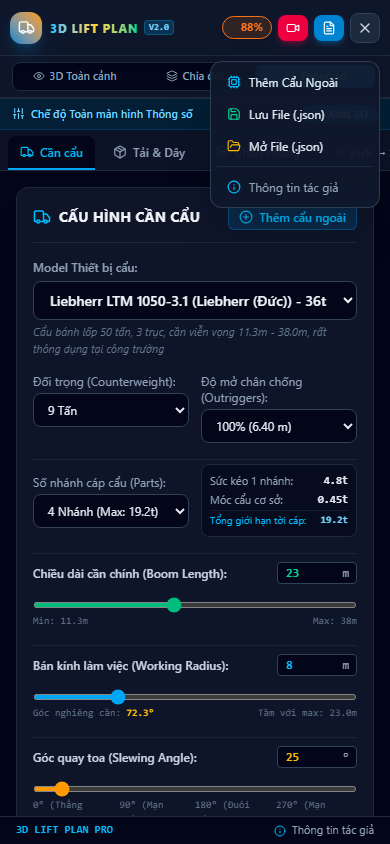
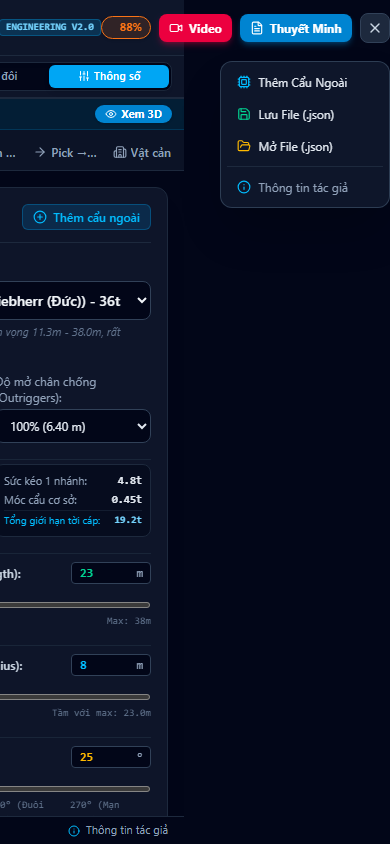
fix: khôi phục nguyên vẹn 100% giao diện desktop chuẩn kỹ thuật và cách ly tối ưu mobile

diff --git a/src/App.jsx b/src/App.jsx
@@ -524,27 +524,27 @@ export default function App() {
       {/* Top Navigation Header */}
       <header className="h-14 border-b border-slate-800 bg-slate-900/95 backdrop-blur-md px-2.5 sm:px-4 flex items-center justify-between z-30 shrink-0 print:hidden relative">
         {/* Logo & Title */}
-        <div className="flex items-center gap-2 sm:gap-3 shrink-0">
-          <div className="w-8 h-8 rounded-xl bg-gradient-to-tr from-sky-600 to-amber-500 flex items-center justify-center shadow-lg shadow-sky-500/20 shrink-0">
-            <Truck className="text-white" size={17} />
+        <div className="flex items-center gap-3 shrink-0">
+          <div className="w-9 h-9 rounded-xl bg-gradient-to-tr from-sky-600 to-amber-500 flex items-center justify-center shadow-lg shadow-sky-500/20 shrink-0">
+            <Truck className="text-white" size={20} />
           </div>
           <div>
-            <div className="flex items-center gap-1.5">
-              <h1 className="text-xs sm:text-sm font-black tracking-wider uppercase bg-gradient-to-r from-sky-400 via-amber-300 to-emerald-400 bg-clip-text text-transparent whitespace-nowrap">
-                3D LIFT PLAN
+            <div className="flex items-center gap-2">
+              <h1 className="text-sm font-black tracking-wider uppercase bg-gradient-to-r from-sky-400 via-amber-300 to-emerald-400 bg-clip-text text-transparent whitespace-nowrap">
+                3D LIFT PLAN PRO
               </h1>
-              <span className="text-[9px] sm:text-[10px] font-mono bg-sky-500/20 text-sky-300 border border-sky-500/30 px-1 py-0.2 rounded font-bold shrink-0">
-                V2.0
+              <span className="text-[10px] font-mono bg-sky-500/20 text-sky-300 border border-sky-500/30 px-1.5 py-0.2 rounded font-bold shrink-0">
+                ENGINEERING V2.0
               </span>
             </div>
-            <p className="text-[11px] text-slate-400 hidden md:block">
+            <p className="text-[11px] text-slate-400 hidden sm:block">
               Hệ thống Tính toán & Mô phỏng Nâng hạ 3D
             </p>
           </div>
         </div>
 
         {/* Global Safety Status Badge & Actions */}
-        <div className="flex items-center gap-1.5 sm:gap-2.5 shrink-0">
+        <div className="flex items-center gap-2 sm:gap-3 shrink-0">
           {/* Safety Status Badge */}
           {/* Mobile version: compact percentage badge */}
           <div
@@ -573,14 +573,14 @@ export default function App() {
           </div>
 
           {/* Desktop Secondary Action Buttons */}
-          <div className="hidden md:flex items-center gap-1.5 shrink-0">
+          <div className="hidden md:flex items-center gap-1.5 sm:gap-2 shrink-0">
             <button
               onClick={() => setIsCustomCraneModalOpen(true)}
-              className="bg-slate-800 hover:bg-slate-700 text-slate-200 border border-slate-700 px-2.5 py-1.5 rounded-lg text-xs font-medium flex items-center gap-1.5 transition-colors whitespace-nowrap shrink-0 cursor-pointer"
+              className="bg-slate-800 hover:bg-slate-700 text-slate-200 border border-slate-700 px-2.5 sm:px-3 py-1.5 rounded-lg text-xs font-medium flex items-center gap-1.5 transition-colors whitespace-nowrap shrink-0 cursor-pointer"
               title="Khai báo loại cẩu mới hoặc tải bảng tải ngoài"
             >
               <Cpu size={14} className="text-sky-400 shrink-0" />
-              <span>Thêm Cẩu</span>
+              <span>Thêm Cẩu Ngoài</span>
             </button>
 
             <button
@@ -589,7 +589,7 @@ export default function App() {
               title="Lưu phương án cẩu (.json)"
             >
               <Save size={14} className="text-emerald-400 shrink-0" />
-              <span>Lưu</span>
+              <span>Lưu file</span>
             </button>
 
             <label
@@ -597,7 +597,7 @@ export default function App() {
               title="Mở phương án cẩu đã lưu (.json)"
             >
               <FolderOpen size={14} className="text-amber-400 shrink-0" />
-              <span>Mở</span>
+              <span>Mở file</span>
               <input
                 ref={fileInputRef}
                 type="file"
@@ -611,22 +611,21 @@ export default function App() {
           {/* Primary Action Buttons (Always visible) */}
           <button
             onClick={() => setIsVideoModalOpen(true)}
-            className="bg-rose-600 hover:bg-rose-500 text-white px-2 sm:px-3.5 py-1.5 rounded-lg text-xs font-bold flex items-center gap-1 sm:gap-1.5 shadow-md shadow-rose-600/30 transition-colors whitespace-nowrap shrink-0 cursor-pointer"
+            className="bg-rose-600 hover:bg-rose-500 text-white px-2.5 sm:px-3.5 py-1.5 rounded-lg text-xs font-bold flex items-center gap-1.5 shadow-md shadow-rose-600/30 transition-colors whitespace-nowrap shrink-0 cursor-pointer"
             title="Xuất video ngắn mô phỏng nâng hạ 3D (MP4 / Full HD)"
           >
             <Video size={14} className="shrink-0" />
-            <span className="hidden xs:inline sm:hidden">Video</span>
             <span className="hidden sm:inline">Xuất Video 3D</span>
+            <span className="sm:hidden">Video</span>
           </button>
 
           <button
             onClick={handleOpenReport}
-            className="bg-sky-600 hover:bg-sky-500 text-white px-2 sm:px-3.5 py-1.5 rounded-lg text-xs font-bold flex items-center gap-1 sm:gap-1.5 shadow-md shadow-sky-600/30 transition-colors whitespace-nowrap shrink-0 cursor-pointer"
-            title="Xuất thuyết minh biện pháp nâng hạ 3D"
+            className="bg-sky-600 hover:bg-sky-500 text-white px-2.5 sm:px-3.5 py-1.5 rounded-lg text-xs font-bold flex items-center gap-1.5 shadow-md shadow-sky-600/30 transition-colors whitespace-nowrap shrink-0 cursor-pointer"
           >
             <FileText size={14} className="shrink-0" />
-            <span className="hidden xs:inline sm:hidden">Thuyết Minh</span>
             <span className="hidden sm:inline">Xuất Thuyết Minh Cẩu</span>
+            <span className="sm:hidden">Thuyết Minh</span>
           </button>
 
           {/* Mobile Secondary Menu Toggle (⋮) */}
@@ -895,66 +894,66 @@ export default function App() {
           )}
 
           {/* Navigation Tabs Bar */}
-          <div className="flex items-center border-b border-slate-800 bg-slate-900/80 px-2 pt-1.5 gap-1.5 shrink-0 select-none overflow-x-auto no-scrollbar scroll-smooth">
+          <div className="flex items-center border-b border-slate-800 bg-slate-900/80 px-1.5 pt-1.5 gap-1 shrink-0 select-none overflow-x-auto no-scrollbar scroll-smooth">
             <button
               onClick={() => setActiveTab('crane')}
-              className={`shrink-0 py-2 px-3 text-xs font-semibold rounded-t-lg transition-all flex items-center justify-center gap-1.5 border-b-2 whitespace-nowrap cursor-pointer ${
+              className={`flex-1 min-w-0 py-2 px-1 text-xs font-semibold rounded-t-lg transition-all flex items-center justify-center gap-1 sm:gap-1.5 border-b-2 whitespace-nowrap cursor-pointer ${
                 activeTab === 'crane'
                   ? 'border-sky-500 bg-slate-950 text-sky-400'
                   : 'border-transparent text-slate-400 hover:text-slate-200'
               }`}
             >
               <Truck size={14} className="shrink-0" />
-              <span>Cần cẩu</span>
+              <span className="truncate">Cần cẩu</span>
             </button>
 
             <button
               onClick={() => setActiveTab('load')}
-              className={`shrink-0 py-2 px-3 text-xs font-semibold rounded-t-lg transition-all flex items-center justify-center gap-1.5 border-b-2 whitespace-nowrap cursor-pointer ${
+              className={`flex-1 min-w-0 py-2 px-1 text-xs font-semibold rounded-t-lg transition-all flex items-center justify-center gap-1 sm:gap-1.5 border-b-2 whitespace-nowrap cursor-pointer ${
                 activeTab === 'load'
                   ? 'border-amber-500 bg-slate-950 text-amber-400'
                   : 'border-transparent text-slate-400 hover:text-slate-200'
               }`}
             >
               <Package size={14} className="shrink-0" />
-              <span>Tải & Dây</span>
+              <span className="truncate">Tải & Dây</span>
             </button>
 
             <button
               onClick={() => setActiveTab('mat')}
-              className={`shrink-0 py-2 px-3 text-xs font-semibold rounded-t-lg transition-all flex items-center justify-center gap-1.5 border-b-2 whitespace-nowrap cursor-pointer ${
+              className={`flex-1 min-w-0 py-2 px-1 text-xs font-semibold rounded-t-lg transition-all flex items-center justify-center gap-1 sm:gap-1.5 border-b-2 whitespace-nowrap cursor-pointer ${
                 activeTab === 'mat'
                   ? 'border-emerald-500 bg-slate-950 text-emerald-400'
                   : 'border-transparent text-slate-400 hover:text-slate-200'
               }`}
             >
               <Layers size={14} className="shrink-0" />
-              <span>Chân chống</span>
+              <span className="truncate">Chân chống</span>
             </button>
 
             <button
               onClick={() => setActiveTab('dual_point')}
-              className={`shrink-0 py-2 px-3 text-xs font-semibold rounded-t-lg transition-all flex items-center justify-center gap-1.5 border-b-2 whitespace-nowrap cursor-pointer ${
+              className={`flex-1 min-w-0 py-2 px-1 text-xs font-semibold rounded-t-lg transition-all flex items-center justify-center gap-1 sm:gap-1.5 border-b-2 whitespace-nowrap cursor-pointer ${
                 activeTab === 'dual_point'
                   ? 'border-rose-500 bg-slate-950 text-rose-400'
                   : 'border-transparent text-slate-400 hover:text-slate-200'
               }`}
             >
               <ArrowRight size={14} className="shrink-0" />
-              <span>Pick → Set</span>
+              <span className="truncate">Pick → Set</span>
             </button>
 
             <button
               onClick={() => setActiveTab('obstacle')}
               title="Vật cản công trình & Vận tốc gió"
-              className={`shrink-0 py-2 px-3 text-xs font-semibold rounded-t-lg transition-all flex items-center justify-center gap-1.5 border-b-2 whitespace-nowrap cursor-pointer ${
+              className={`flex-1 min-w-0 py-2 px-1 text-xs font-semibold rounded-t-lg transition-all flex items-center justify-center gap-1 sm:gap-1.5 border-b-2 whitespace-nowrap cursor-pointer ${
                 activeTab === 'obstacle'
                   ? 'border-purple-500 bg-slate-950 text-purple-400'
                   : 'border-transparent text-slate-400 hover:text-slate-200'
               }`}
             >
               <Building2 size={14} className="shrink-0" />
-              <span>Vật cản</span>
+              <span className="truncate">Vật cản</span>
             </button>
           </div>
 

diff --git a/src/components/ThreeViewport.jsx b/src/components/ThreeViewport.jsx
@@ -1094,15 +1094,15 @@ export default function ThreeViewport({
       )}
 
       {/* Top Overlay Bar: Status & Key Telemetry */}
-      <div className="absolute top-2 sm:top-3 left-2 sm:left-3 right-2 sm:right-3 flex items-center justify-between pointer-events-none gap-1.5 sm:gap-2">
+      <div className="absolute top-3 left-3 right-3 flex items-center justify-between pointer-events-none gap-2">
         {/* Crane & Model Tag */}
-        <div className="bg-slate-900/90 backdrop-blur-md px-2.5 sm:px-3.5 py-1 sm:py-2 rounded-lg border border-slate-700/80 shadow-lg flex items-center gap-2 sm:gap-3 pointer-events-auto min-w-0 max-w-[58%] sm:max-w-none">
-          <div className="w-2.5 h-2.5 sm:w-3 sm:h-3 rounded-full animate-pulse shrink-0" style={{ backgroundColor: liftCategory.color }} />
-          <div className="min-w-0">
-            <div className="text-[11px] sm:text-xs font-semibold text-slate-200 tracking-wide truncate">{crane?.name || 'Chưa chọn cẩu'}</div>
-            <div className="text-[9px] sm:text-[11px] text-slate-400 font-mono truncate">
-              R: <span className="text-sky-400 font-bold">{workingRadius.toFixed(1)}m</span> | α:{' '}
-              <span className="text-amber-400 font-bold">{boomAngle.toFixed(1)}°</span> | L:{' '}
+        <div className="bg-slate-900/85 backdrop-blur-md px-3.5 py-2 rounded-lg border border-slate-700/80 shadow-lg flex items-center gap-3 pointer-events-auto">
+          <div className="w-3 h-3 rounded-full animate-pulse shrink-0" style={{ backgroundColor: liftCategory.color }} />
+          <div>
+            <div className="text-xs font-semibold text-slate-200 tracking-wide">{crane?.name || 'Chưa chọn cẩu'}</div>
+            <div className="text-[11px] text-slate-400 font-mono">
+              Bán kính: <span className="text-sky-400 font-bold">{workingRadius.toFixed(1)}m</span> | Góc cần:{' '}
+              <span className="text-amber-400 font-bold">{boomAngle.toFixed(1)}°</span> | Cần:{' '}
               <span className="text-emerald-400 font-bold">{boomLength.toFixed(1)}m</span>
             </div>
           </div>
@@ -1110,25 +1110,25 @@ export default function ThreeViewport({
 
         {/* Live Safety Lift Percentage Pill */}
         <div
-          className="px-2.5 sm:px-3.5 py-1 sm:py-2 rounded-lg backdrop-blur-md border shadow-lg flex items-center gap-2 sm:gap-3 pointer-events-auto shrink-0"
+          className="px-4 py-2 rounded-lg backdrop-blur-md border shadow-lg flex items-center gap-3 pointer-events-auto shrink-0"
           style={{
             backgroundColor: liftCategory.bgColor,
             borderColor: liftCategory.color
           }}
         >
           <div className="text-right">
-            <div className="text-[8px] sm:text-[10px] font-bold uppercase tracking-wider text-slate-300">Khả năng tải</div>
-            <div className="text-sm sm:text-lg font-black font-mono tracking-tight leading-none sm:leading-tight" style={{ color: liftCategory.color }}>
-              {liftPercentage > 0 ? `${liftPercentage.toFixed(1)}%` : 'NGOÀI BẢNG'}
+            <div className="text-[10px] font-bold uppercase tracking-wider text-slate-300">Khả năng tải (Lift %)</div>
+            <div className="text-lg font-black font-mono tracking-tight" style={{ color: liftCategory.color }}>
+              {liftPercentage > 0 ? `${liftPercentage.toFixed(1)}%` : 'NGOÀI BẢNG TẢI'}
             </div>
           </div>
-          <div className="h-5 sm:h-8 w-px bg-slate-700/60" />
-          <div className="text-left text-[9px] sm:text-xs font-mono leading-tight">
+          <div className="h-8 w-px bg-slate-700/60" />
+          <div className="text-left text-xs font-mono">
             <div className="text-slate-300">
-              Tổng: <span className="font-bold text-white">{grossLoad.toFixed(1)}t</span>
+              Tổng tải: <span className="font-bold text-white">{grossLoad.toFixed(2)}t</span>
             </div>
-            <div className="text-slate-400 text-[8px] sm:text-[11px]">
-              Max: <span className="font-bold text-sky-300">{ratedCapacity.toFixed(1)}t</span>
+            <div className="text-slate-400 text-[11px]">
+              Tải cho phép: <span className="font-bold text-sky-300">{ratedCapacity.toFixed(2)}t</span>
             </div>
           </div>
         </div>
@@ -1278,10 +1278,10 @@ export default function ThreeViewport({
       </div>
 
       {/* Trajectory Simulation & Play Controls + Real-Time Load Rotation */}
-      <div className="absolute bottom-2 sm:bottom-4 right-2 sm:right-4 z-30 bg-slate-900/90 backdrop-blur-md p-1 sm:p-1.5 rounded-xl border border-slate-700/80 shadow-xl flex items-center gap-1.5 sm:gap-2 shrink-0 max-w-[96%] flex-wrap justify-end">
+      <div className="absolute bottom-3 sm:bottom-4 right-3 sm:right-4 z-30 bg-slate-900/90 backdrop-blur-md p-1.5 rounded-xl border border-slate-700/80 shadow-xl flex items-center gap-2 shrink-0">
         {/* Real-time Direct Load Rotation Quick Control */}
-        <div className="flex items-center gap-1 bg-slate-950/70 border border-slate-700/60 rounded-lg px-1.5 sm:px-2 py-0.5 sm:py-1 text-xs shrink-0">
-          <RotateCw size={12} className="text-emerald-400 shrink-0" />
+        <div className="flex items-center gap-1.5 bg-slate-950/70 border border-slate-700/60 rounded-lg px-2 py-1 text-xs">
+          <RotateCw size={13} className="text-emerald-400 shrink-0" />
           <span className="text-[11px] text-slate-300 font-medium hidden sm:inline">Xoay tải:</span>
           <WheelNumberInput
             value={loadRotation || 0}
@@ -1293,7 +1293,7 @@ export default function ThreeViewport({
             step={5}
             wrapAround={true}
             unit="°"
-            className="w-11 sm:w-14 bg-slate-900 border border-slate-700 rounded px-1 py-0.5 text-xs text-emerald-400 font-mono font-bold text-center focus:border-emerald-500"
+            className="w-14 bg-slate-900 border border-slate-700 rounded px-1 py-0.5 text-xs text-emerald-400 font-mono font-bold text-center focus:border-emerald-500"
           />
           <div className="hidden sm:flex items-center gap-0.5">
             {[0, 90, 180, 270].map((deg) => (
@@ -1317,13 +1317,13 @@ export default function ThreeViewport({
 
         <button
           onClick={() => setIsSimulating(!isSimulating)}
-          className={`px-2.5 sm:px-3 py-1 sm:py-1.5 text-xs font-bold rounded-lg flex items-center gap-1 sm:gap-1.5 shadow transition-all whitespace-nowrap cursor-pointer shrink-0 ${
+          className={`px-3 py-1.5 text-xs font-bold rounded-lg flex items-center gap-1.5 shadow transition-all whitespace-nowrap cursor-pointer ${
             isSimulating
               ? 'bg-amber-600 hover:bg-amber-500 text-white'
               : 'bg-emerald-600 hover:bg-emerald-500 text-white'
           }`}
         >
-          {isSimulating ? <Pause size={13} className="shrink-0" /> : <Play size={13} className="shrink-0" />}
+          {isSimulating ? <Pause size={14} className="shrink-0" /> : <Play size={14} className="shrink-0" />}
           <span className="hidden sm:inline">{isSimulating ? 'Tạm dừng mô phỏng' : 'Chạy thử đường cẩu (Pick → Set)'}</span>
           <span className="sm:hidden">{isSimulating ? 'Dừng' : 'Mô phỏng'}</span>
         </button>
@@ -1332,10 +1332,10 @@ export default function ThreeViewport({
         {onOpenVideoModal && (
           <button
             onClick={onOpenVideoModal}
-            className="px-2.5 sm:px-3 py-1 sm:py-1.5 text-xs font-bold rounded-lg flex items-center gap-1 shadow transition-all whitespace-nowrap cursor-pointer bg-rose-600 hover:bg-rose-500 text-white shadow-rose-600/20 shrink-0"
+            className="px-3 py-1.5 text-xs font-bold rounded-lg flex items-center gap-1.5 shadow transition-all whitespace-nowrap cursor-pointer bg-rose-600 hover:bg-rose-500 text-white shadow-rose-600/20"
             title="Xuất video ngắn mô phỏng nâng hạ 3D (MP4 / Full HD)"
           >
-            <Video size={13} className="shrink-0" />
+            <Video size={14} className="shrink-0" />
             <span className="hidden sm:inline">Quay video 3D</span>
             <span className="sm:hidden">Video</span>
           </button>
@@ -1343,7 +1343,7 @@ export default function ThreeViewport({
       </div>
 
       {/* Floating Bottom Center: Outrigger Pressure Legend */}
-      <div className="absolute bottom-4 left-1/2 -translate-x-1/2 bg-slate-900/80 backdrop-blur-sm px-3 py-1.5 rounded-full border border-slate-800 text-[11px] text-slate-400 items-center gap-4 pointer-events-none hidden lg:flex">
+      <div className="absolute bottom-4 left-1/2 -translate-x-1/2 bg-slate-900/80 backdrop-blur-sm px-3 py-1.5 rounded-full border border-slate-800 text-[11px] text-slate-400 flex items-center gap-4 pointer-events-none hidden md:flex">
         <span className="flex items-center gap-1.5">
           <span className="w-2.5 h-2.5 rounded-full bg-emerald-500 inline-block" /> Áp lực an toàn (&lt;85%)
         </span>
